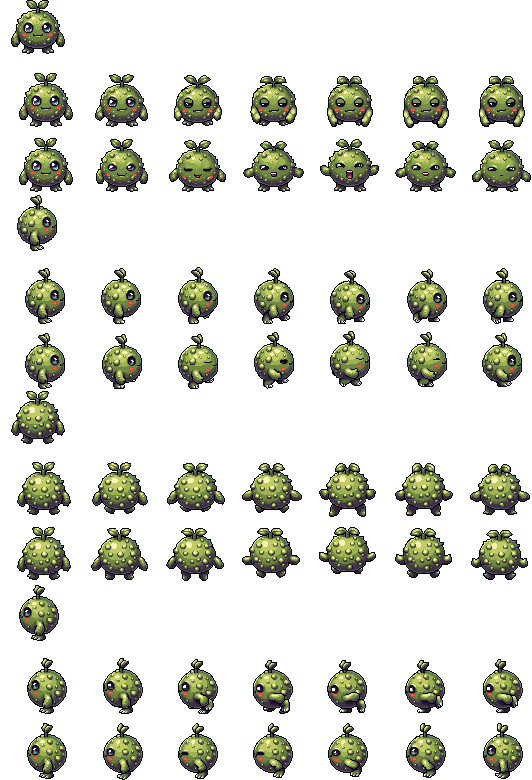
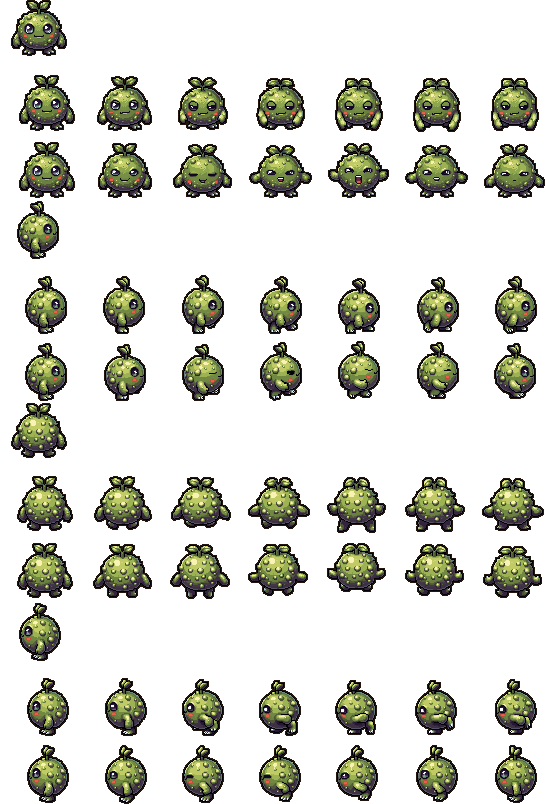
Outline the Green Slime; add Ragnarok-style monster prompts
pack-sprites.py now gives every packed character the 1 px dark outline.
pixellab.py gains RO-style prompts for the Blue Slime, Sproutling,
Mudcrab, Mushling, Pebble Beetle and Firefly Wisp (generation in
progress).

Claude-Session: https://claude.ai/code/session_011XQ9QCw3CGEUAN2nqYKZsD

diff --git a/build-tools/pixellab.py b/build-tools/pixellab.py
@@ -61,6 +61,48 @@ CHARACTERS = [
 ]
 
 
+# Ragnarok Online style monsters. template_id picks the skeleton used to animate them:
+# mannequin for two-legged or legless ones, a quadruped for crawlers.
+RO_MOB = ("Ragnarok Online style monster sprite, cute and chubby, bold dark brown outline, "
+          "soft painterly cel shading")
+
+
+def mob(name, desc, template, anims):
+    return {
+        "name": name,
+        "endpoint": "/create-character-v3",
+        "body": {
+            "description": desc + ". " + RO_MOB,
+            "image_size": {"width": 64, "height": 64},
+            "view": "low top-down",
+            "template_id": template,
+            "outline": "single color black outline",
+            "detail": "medium detail",
+        },
+        "animations": [{"animation_name": n, "action_description": d, "frame_count": 6} for n, d in anims],
+    }
+
+
+CHARACTERS += [
+    mob("blueslime", "round translucent blue jelly slime blob shaped like a water drop, no arms, no legs, "
+        "big shiny eyes, small happy mouth", "mannequin",
+        [("hop", "bouncing hop in place, squashing and stretching"), ("attack", "lunging forward to bump attack")]),
+    mob("sprout", "tiny onion-bulb plant creature with two green leaves sprouting from its head, short stubby legs, "
+        "shy round eyes", "mannequin",
+        [("walk", "waddling walk"), ("attack", "angry headbutt forward")]),
+    mob("crab", "small pink mud crab with big pincers, stalk eyes and a muddy round shell", "cat",
+        [("walk", "scuttling walk"), ("attack", "snapping its pincers forward")]),
+    mob("mushling", "small mushroom creature with a big purple spotted cap, pale stem body, tiny feet, sleepy eyes",
+        "mannequin",
+        [("walk", "waddling walk"), ("attack", "shaking its cap and puffing a cloud of spores")]),
+    mob("beetle", "chunky beetle with a grey pebble stone shell, ochre legs and a small horn", "dog",
+        [("walk", "crawling walk"), ("attack", "ramming forward with its horn")]),
+    mob("wisp", "glowing yellow firefly wisp spirit, small round glowing body with tiny translucent wings, "
+        "no arms, no legs", "mannequin",
+        [("walk", "hovering and fluttering in place"), ("attack", "darting forward")]),
+]
+
+
 def log(*a):
     print(time.strftime("%H:%M:%S"), *a, flush=True)
 

diff --git a/build-tools/pack-sprites.py b/build-tools/pack-sprites.py
@@ -20,10 +20,8 @@ MIRROR = {'right': 'left', 'left': 'right'}
 #   outline: (pixels, colour) solid border traced around the silhouette, Ragnarok Online style
 # (the first player, art/pixellab/player_v1, needed 'mirror': {('attack', 'right')}: its east
 # attack had no sword)
-CHARS = {
-    'player': {'outline': (1, (34, 22, 14))},
-    'slime': {},
-}
+OUTLINE = {'outline': (1, (34, 22, 14))}
+CHARS = {name: OUTLINE for name in ['player', 'slime', 'blueslime', 'sprout', 'crab', 'mushling', 'beetle', 'wisp']}
 
 
 def outline(f, width, colour):
